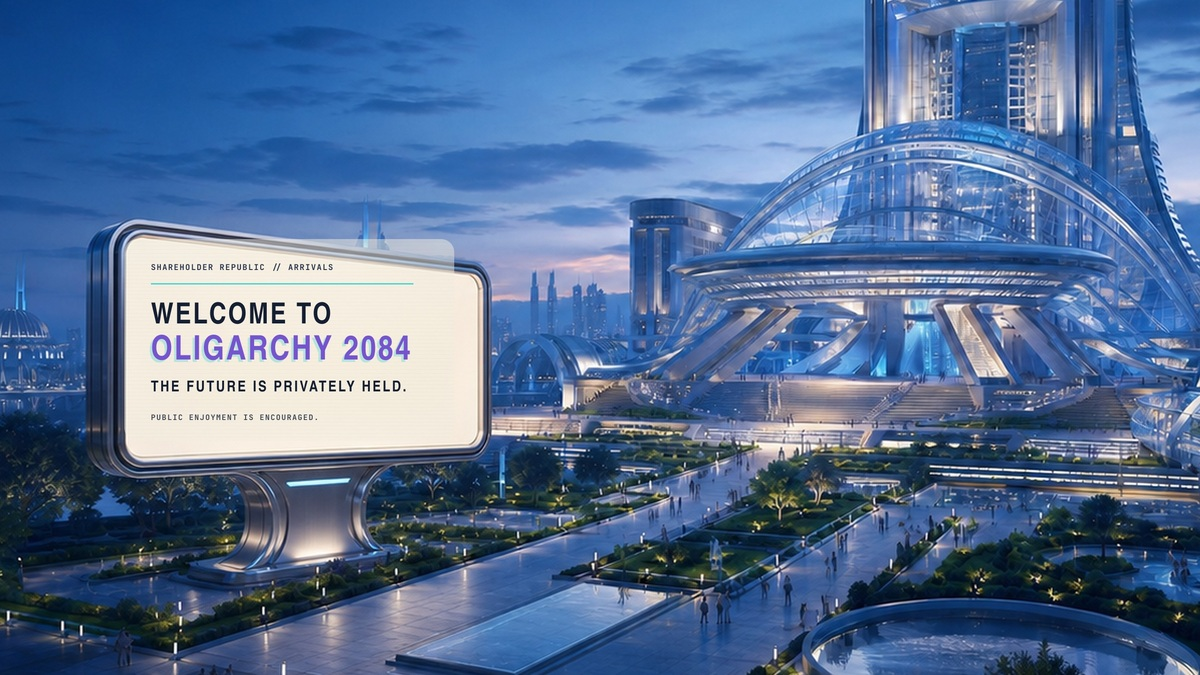
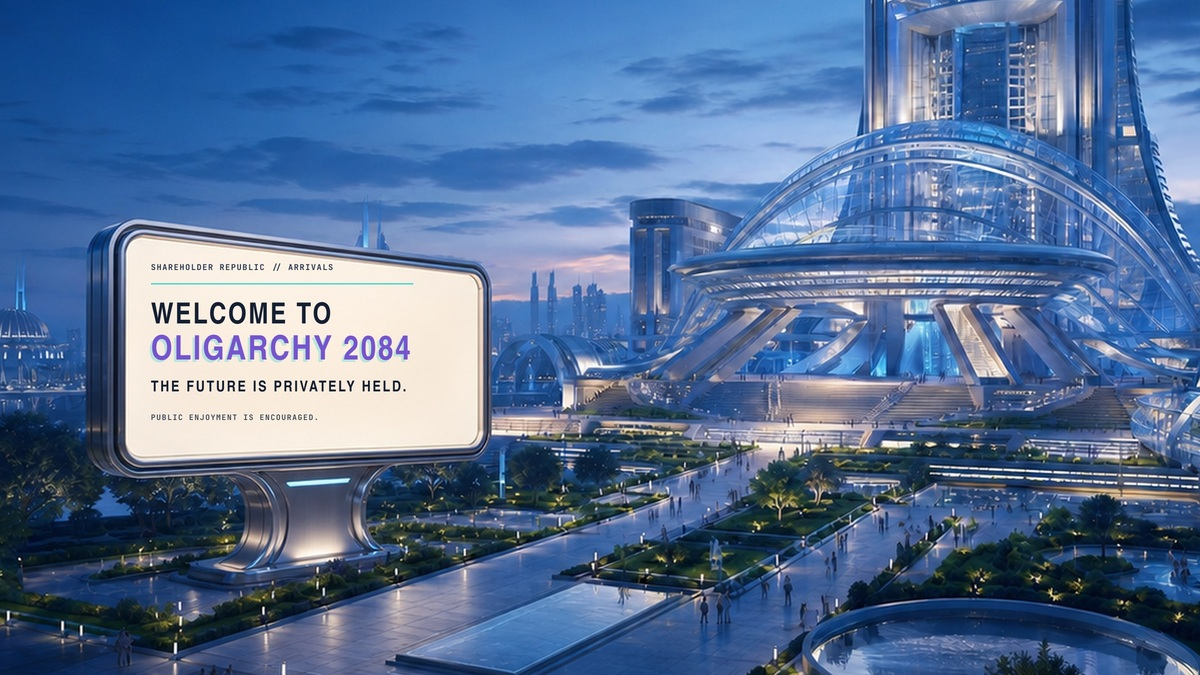
Fix billboard text compositing

Changed region(s): [[0.1542, 0.3422, 0.4008, 0.4044]]

diff --git a/extras/source/validation-report.md b/extras/source/validation-report.md
@@ -1,7 +1,8 @@
 # Validation report
 
 Validated on 2026-08-26 against Omarchy `4.0.1-1` and the Quattro branch at
-commit `0ae1694830b6bd9511042fe1b89a0062d8c083cb`.
+commit `0ae1694830b6bd9511042fe1b89a0062d8c083cb`. The billboard-compositing
+correction was installed and revalidated live on 2026-08-27.
 
 ## Installation and staging
 
@@ -37,6 +38,9 @@ commit `0ae1694830b6bd9511042fe1b89a0062d8c083cb`.
 - PASS — `preview.png` is a native 1440×900 screenshot of the running system,
   not a conceptual mockup. Its application windows occupy the left half while
   the Preferred Future campaign display remains fully visible on the right.
+- PASS — Privately Held and Preferred Future were captured unobstructed at the
+  live 1440×900 desktop crop after the correction. Neither contains a duplicate
+  panel edge, and no text crosses the physical billboard frame.
 
 The actual lock and polkit credential flows were not submitted during automated
 validation. Their generated shell sections were inspected for background,

diff --git a/extras/source/composition-notes.md b/extras/source/composition-notes.md
@@ -13,6 +13,12 @@ ownership-registry instrument. Fine scan lines, phosphor bloom, print grain,
 and slight registration drift carry the late-1970s/early-1980s
 retro-science-fiction language without sacrificing desktop legibility.
 
+The Privately Held and Preferred Future overlays are typography-only: their
+scene masters already contain finished, illuminated billboard faces. No second
+panel fill, rounded rectangle, or scanline card is composited over that physical
+hardware. Preferred Future uses a tighter inset to remain inside the billboard's
+perspective edges at the native 4K export and the 1440×900 desktop crop.
+
 The final raster exports are sRGB JPEGs at 3840×2160. Textless masters use the
 same dimensions. Dedicated ultrawide variants are 3440×1440 and are cropped or
 recomposed from the clean scene rather than stretched.

diff --git a/CHANGELOG.md b/CHANGELOG.md
@@ -1,5 +1,15 @@
 # Changelog
 
+## 1.2.2 — 2026-08-27
+
+- Removed the duplicate translucent display panels from Privately Held and
+  Preferred Future so their typography sits directly on the billboards built
+  into each scene.
+- Re-inset the Preferred Future campaign copy to keep every line within the
+  physical display face at both 4K and the live 1440×900 desktop crop.
+- Rebuilt the affected ultrawide, social, contact-sheet, and preview assets and
+  repeated the live Omarchy validation pass.
+
 ## 1.2.1 — 2026-08-26
 
 - Completed a live UI/UX review across the Omarchy shell, menus, notifications,
